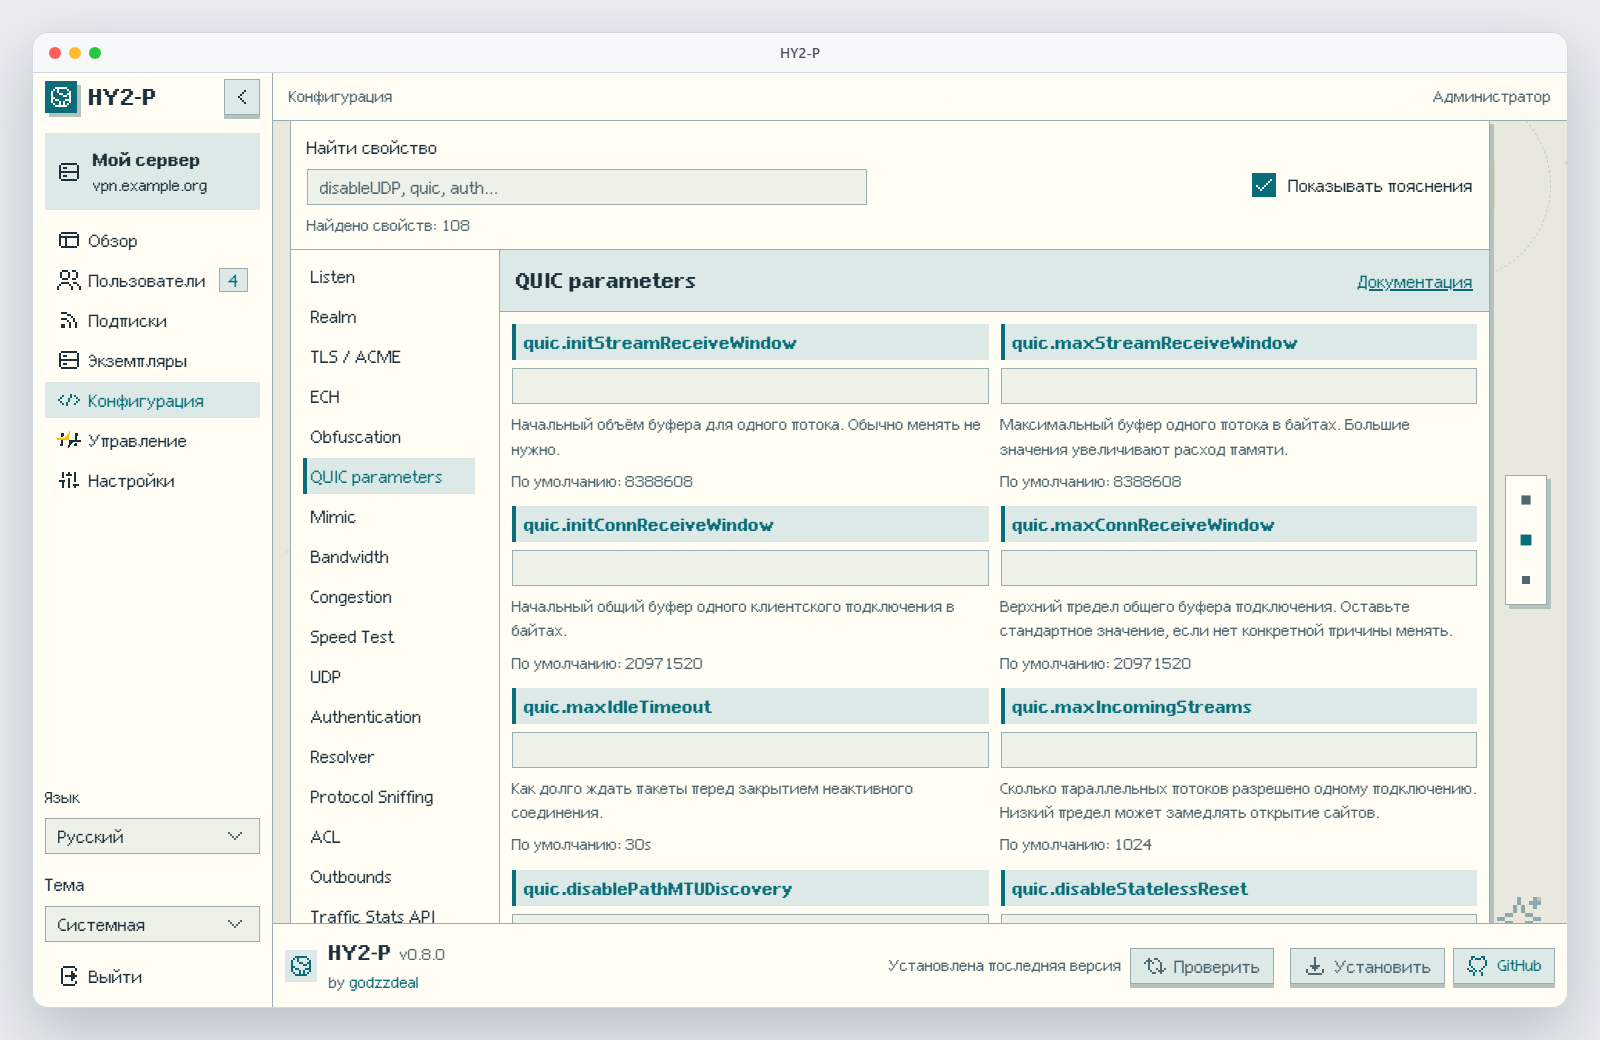
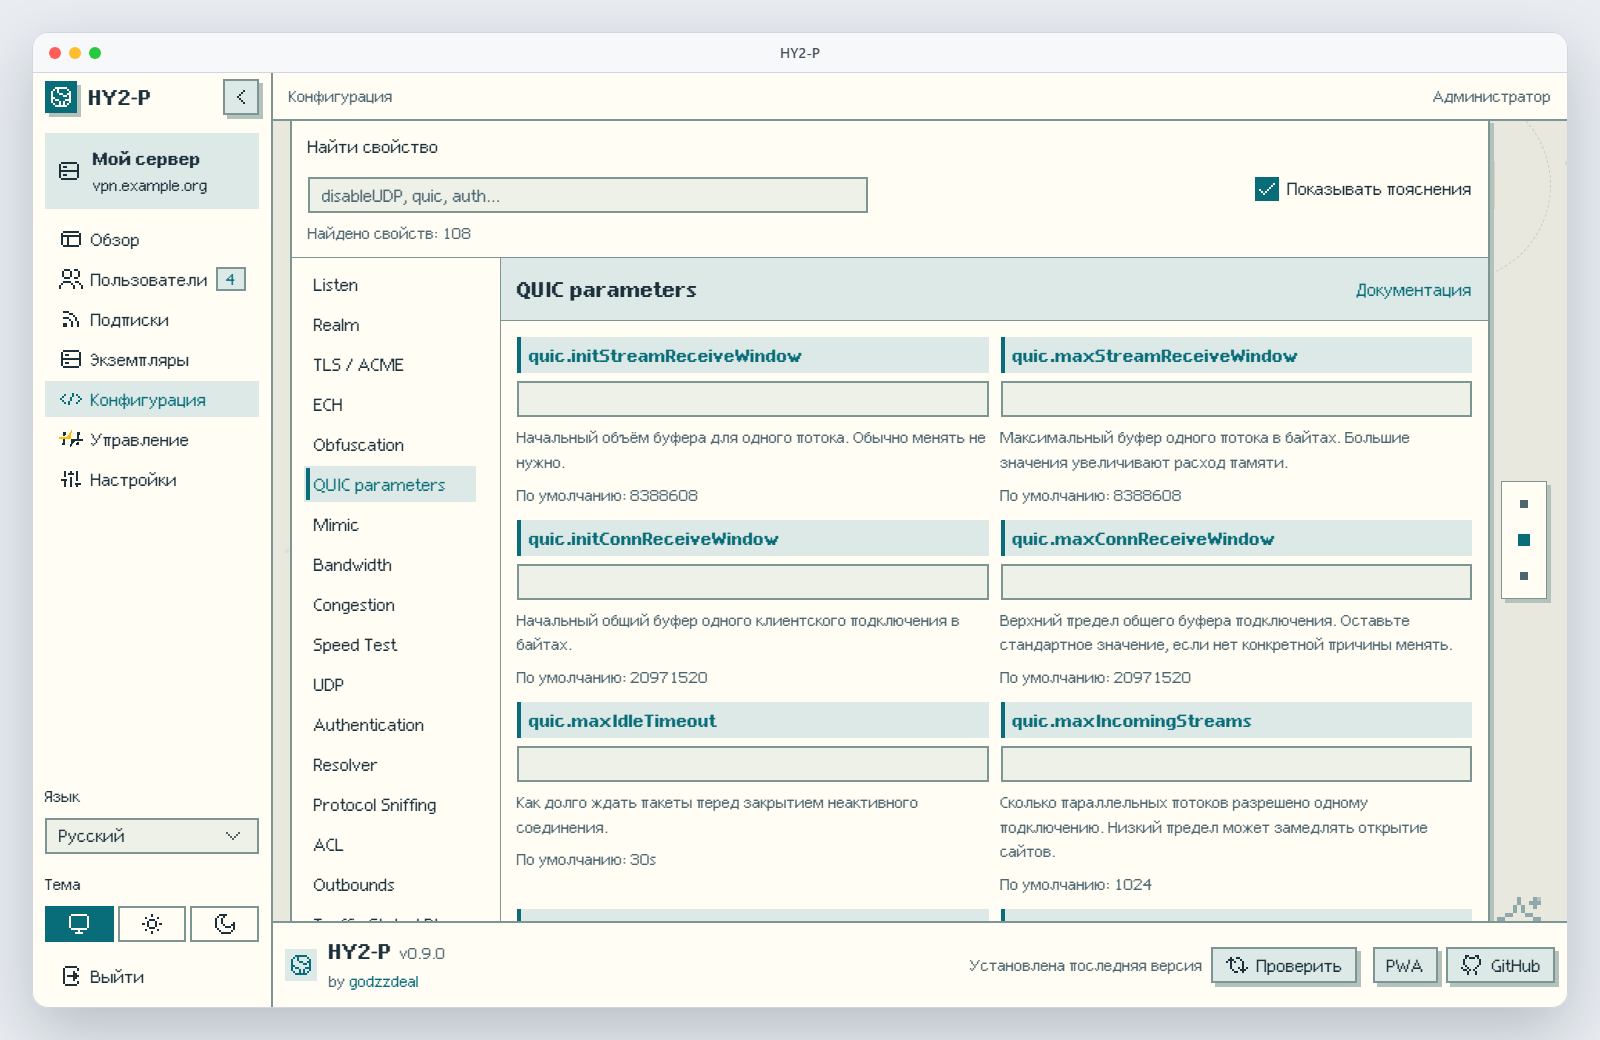
chore: prepare 0.9.0 release and stabilize settings checks

diff --git a/web/tests/ui/specs/administration/dialogs.spec.ts b/web/tests/ui/specs/administration/dialogs.spec.ts
@@ -1,5 +1,5 @@
 import { expect, test } from "@playwright/test";
-import { mockPanel } from "../../fixtures";
+import { expandSettings, mockPanel } from "../../fixtures";
 
 test("Escape dismisses only the current confirmation inside panel maintenance", async ({ page }) => {
   await mockPanel(page);
@@ -32,4 +32,30 @@ test("Escape dismisses only the current confirmation inside panel maintenance", 
   await expect(parent).toBeVisible();
   await page.keyboard.press("Escape");
   await expect(parent).toHaveCount(0);
+});
+
+test("opening settings keeps its target when a late section is inserted", async ({ page }) => {
+  await page.setContent("<main></main>");
+  await page.evaluate(() => {
+    function appendSection(id: string): HTMLButtonElement {
+      const button = document.createElement("button");
+      button.className = "settings-toggle";
+      button.textContent = id;
+      button.setAttribute("aria-controls", id);
+      button.setAttribute("aria-expanded", "false");
+      button.addEventListener("click", () => button.setAttribute("aria-expanded", "true"));
+      document.querySelector("main")!.append(button);
+      return button;
+    }
+    const first = appendSection("first");
+    appendSection("second");
+    appendSection("maintenance");
+    first.addEventListener("click", () => document.querySelector("main")!.prepend(appendSection("late")), {
+      once: true,
+    });
+  });
+  await expandSettings(page);
+  for (const name of ["first", "second", "maintenance"]) {
+    await expect(page.getByRole("button", { name, exact: true })).toHaveAttribute("aria-expanded", "true");
+  }
 });

diff --git a/web/tests/ui/fixtures/ui-actions.ts b/web/tests/ui/fixtures/ui-actions.ts
@@ -1,6 +1,9 @@
 import { expect, type Page } from "@playwright/test";
 export async function chooseTheme(page: Page, choice: { label: string; value: string }): Promise<void> {
-  await page.getByRole("group", { name: "Тема", exact: true }).getByRole("button", { name: choice.label, exact: true }).click();
+  await page
+    .getByRole("group", { name: "Тема", exact: true })
+    .getByRole("button", { name: choice.label, exact: true })
+    .click();
   await expect(page.locator("html")).toHaveAttribute("data-theme", choice.value);
   await page.evaluate(() => document.fonts.ready);
 }
@@ -13,8 +16,15 @@ export async function chooseUserAction(page: Page, user: string, action: string)
 }
 
 export async function expandSettings(page: Page): Promise<void> {
-  await page.locator(".settings-toggle").first().waitFor();
-  for (const toggle of await page.locator(".settings-toggle").all()) {
+  const toggles = page.locator(".settings-toggle");
+  await toggles.first().waitFor();
+  const sections = await toggles.evaluateAll((elements) =>
+    elements.map((element) => element.getAttribute("aria-controls")),
+  );
+  for (const section of sections) {
+    if (!section) throw new Error("Settings toggle has no target");
+    const toggle = page.locator('[aria-controls="' + section + '"]');
     if ((await toggle.getAttribute("aria-expanded")) === "false") await toggle.click();
+    await expect(toggle).toHaveAttribute("aria-expanded", "true");
   }
 }
